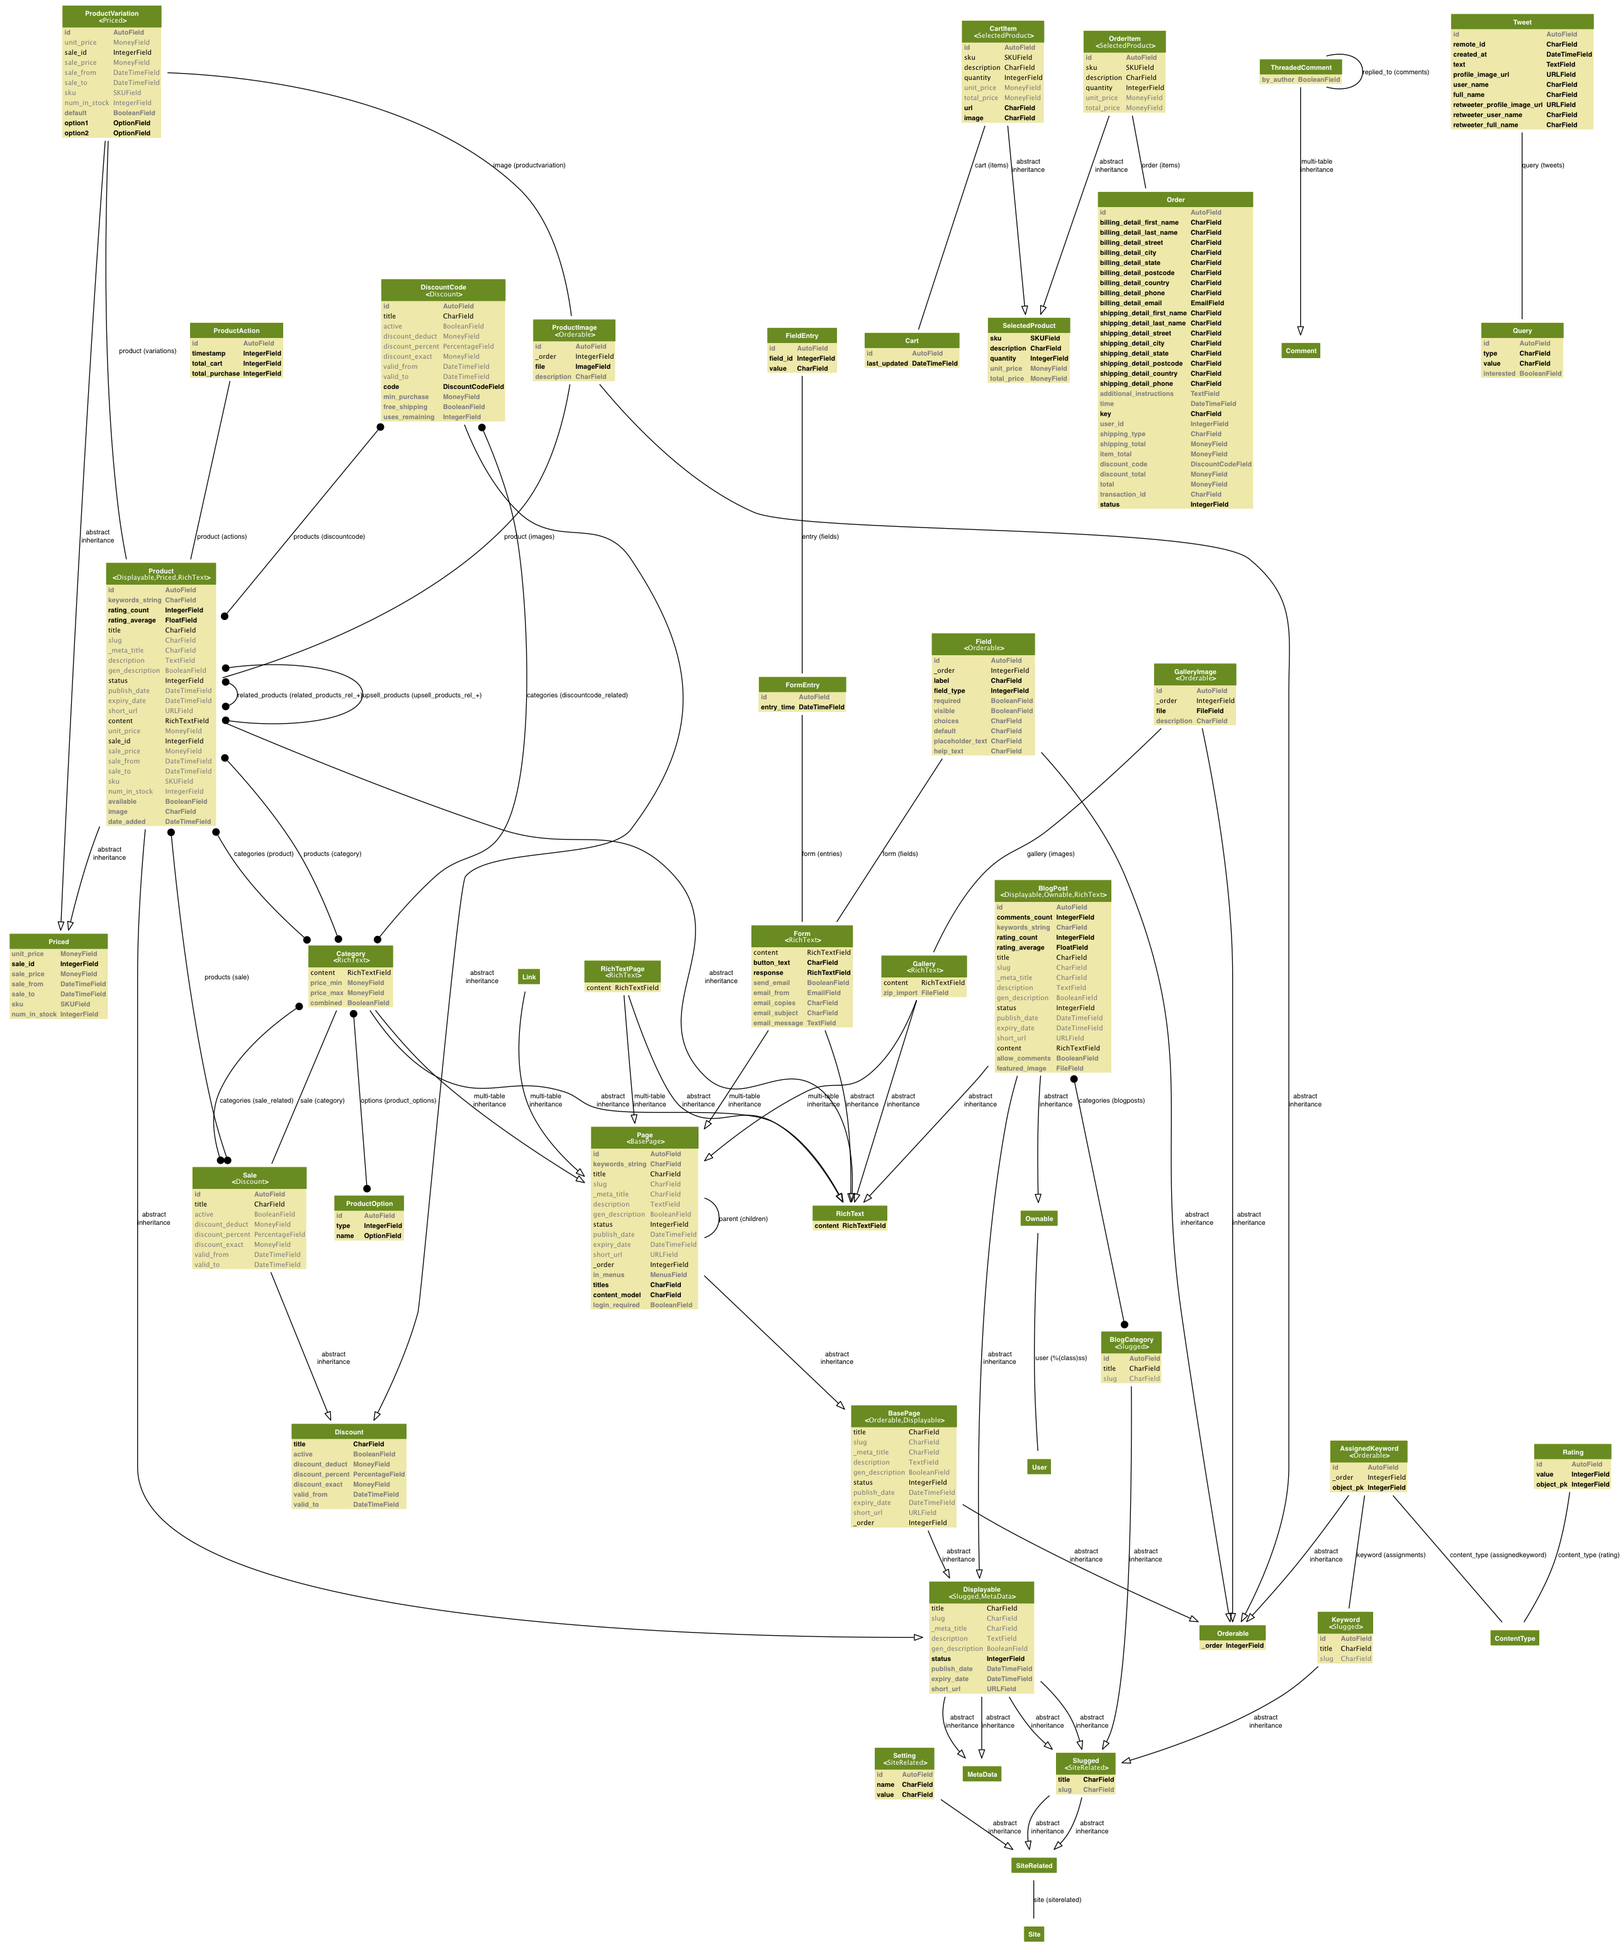
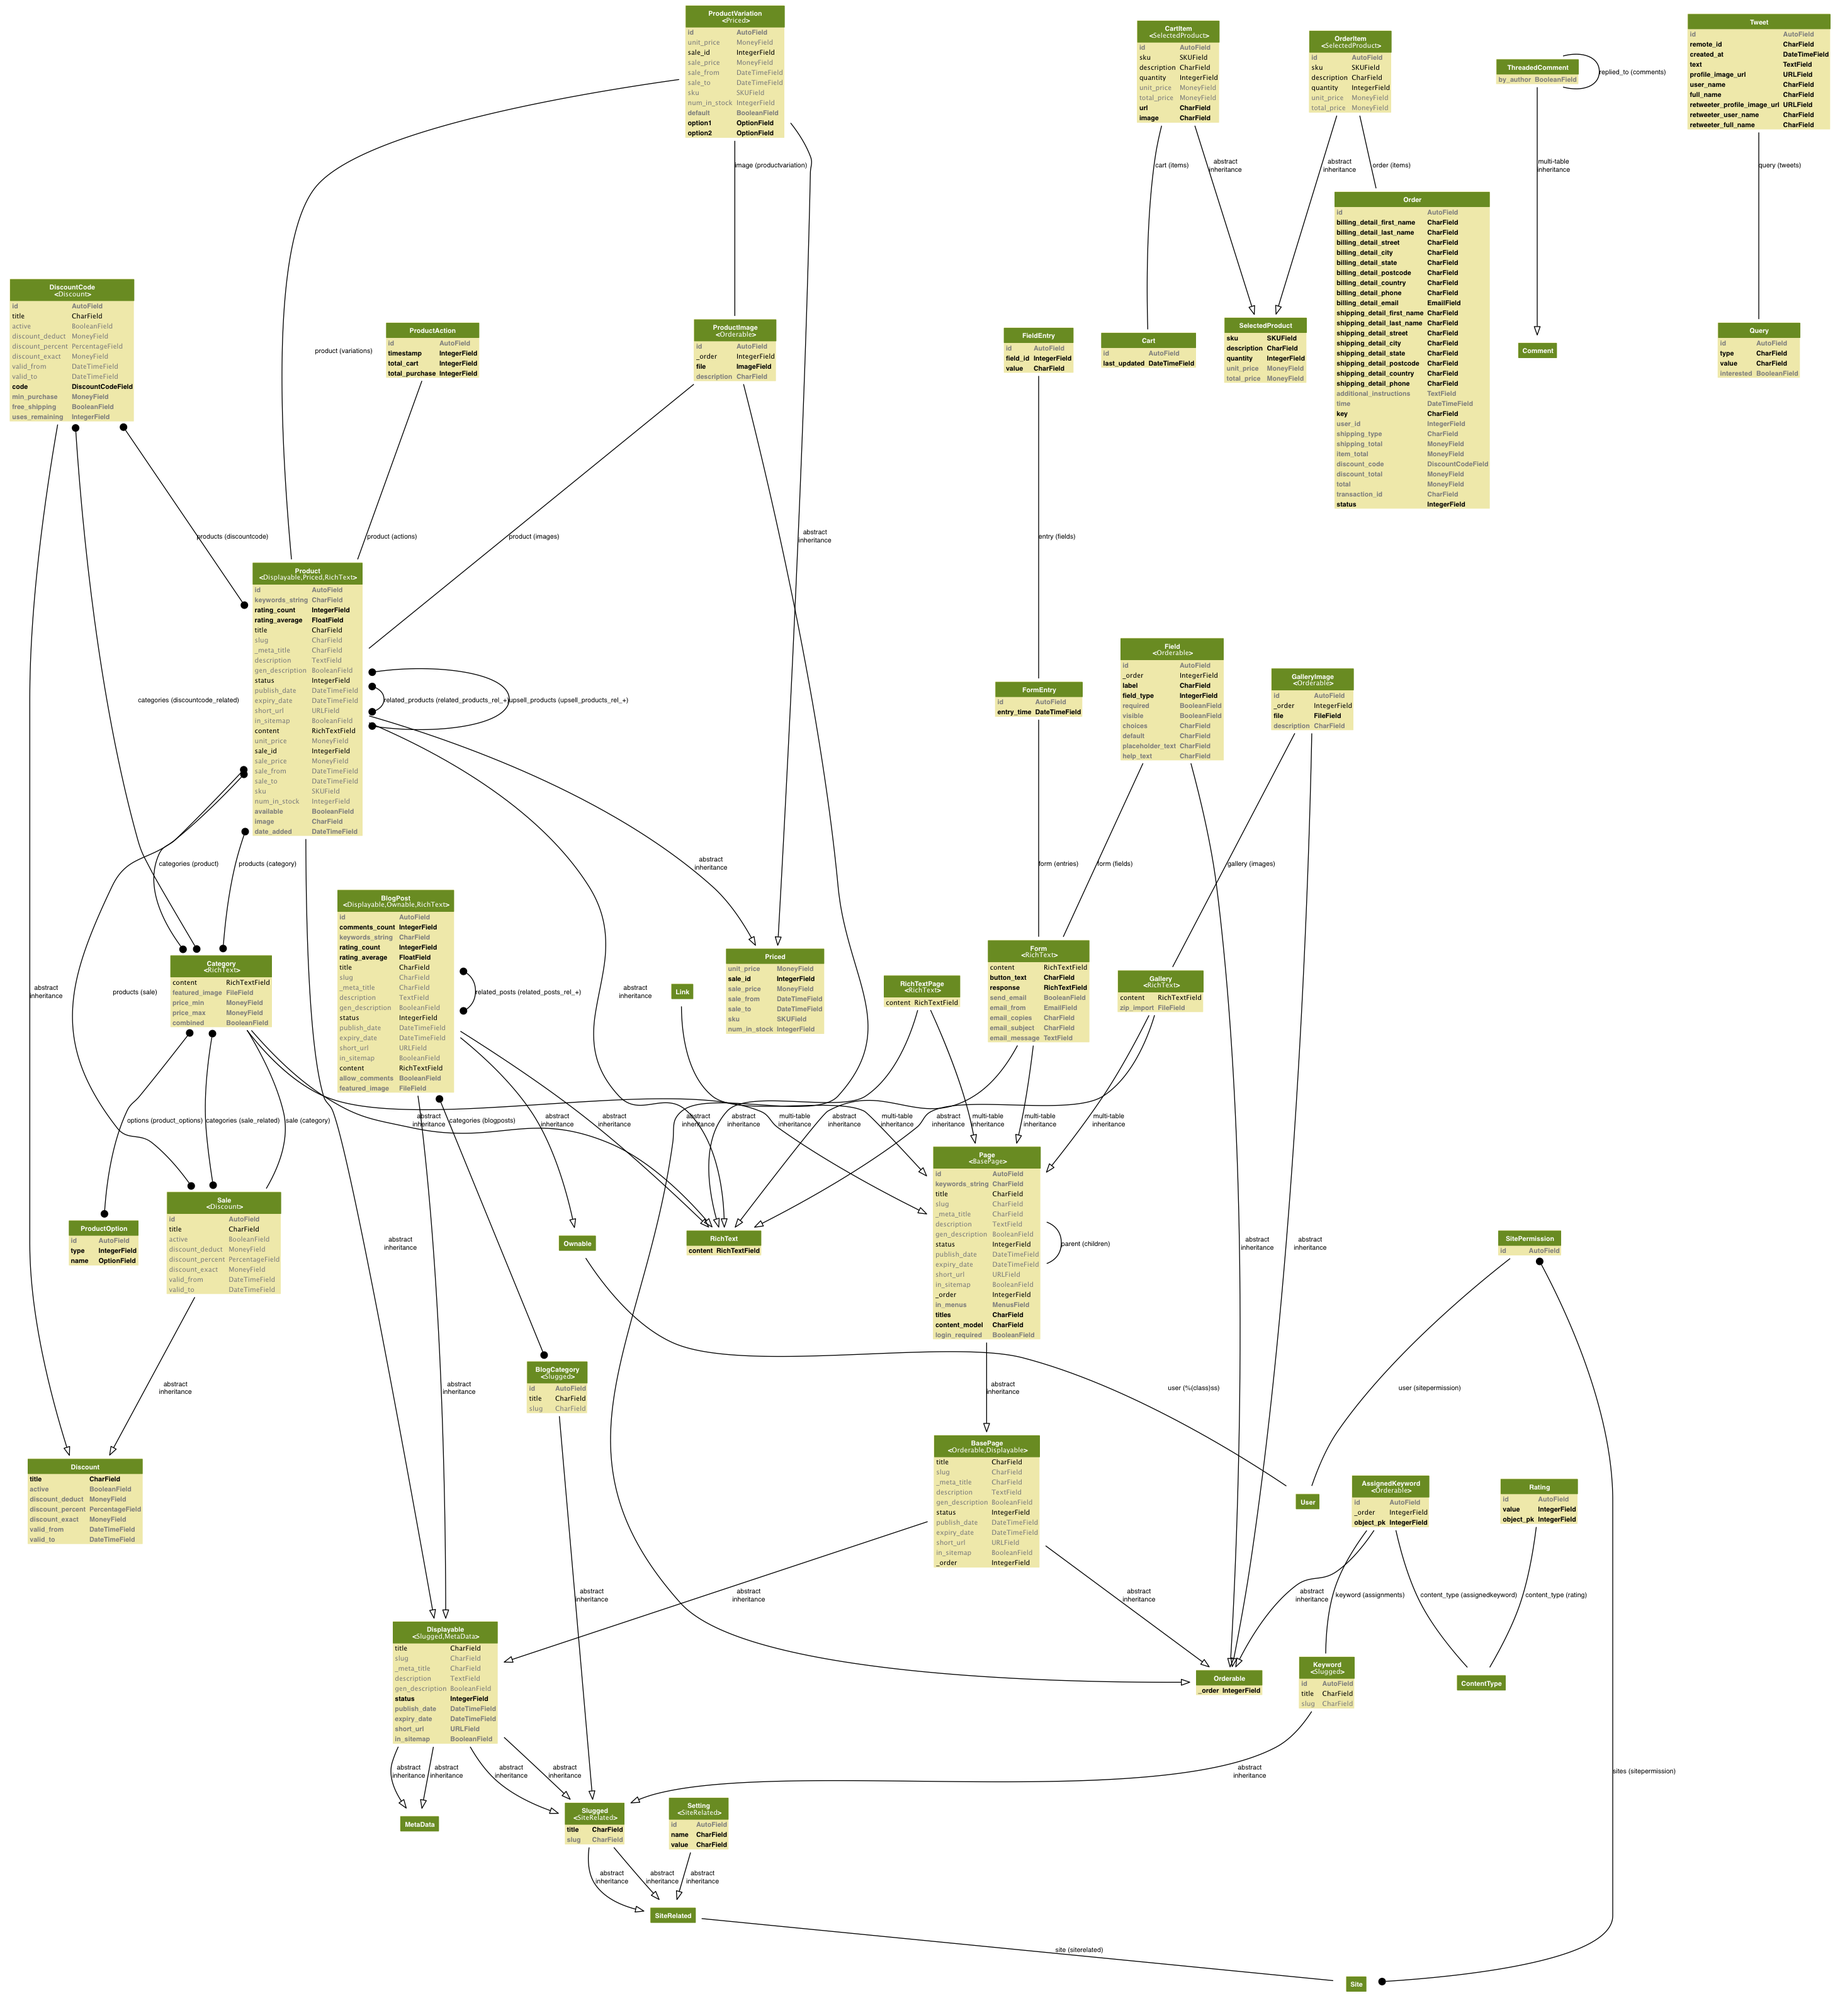
Update generated changlog, settings doc, etc.

diff --git a/docs/settings.rst b/docs/settings.rst
@@ -14,6 +14,13 @@ Number of minutes of inactivity until carts are abandoned.
 
 Default: ``30``
 
+``SHOP_CATEGORY_USE_FEATURED_IMAGE``
+------------------------------------
+
+Enable featured images in shop categories
+
+Default: ``False``
+
 ``SHOP_CHECKOUT_ACCOUNT_REQUIRED``
 ----------------------------------
 
